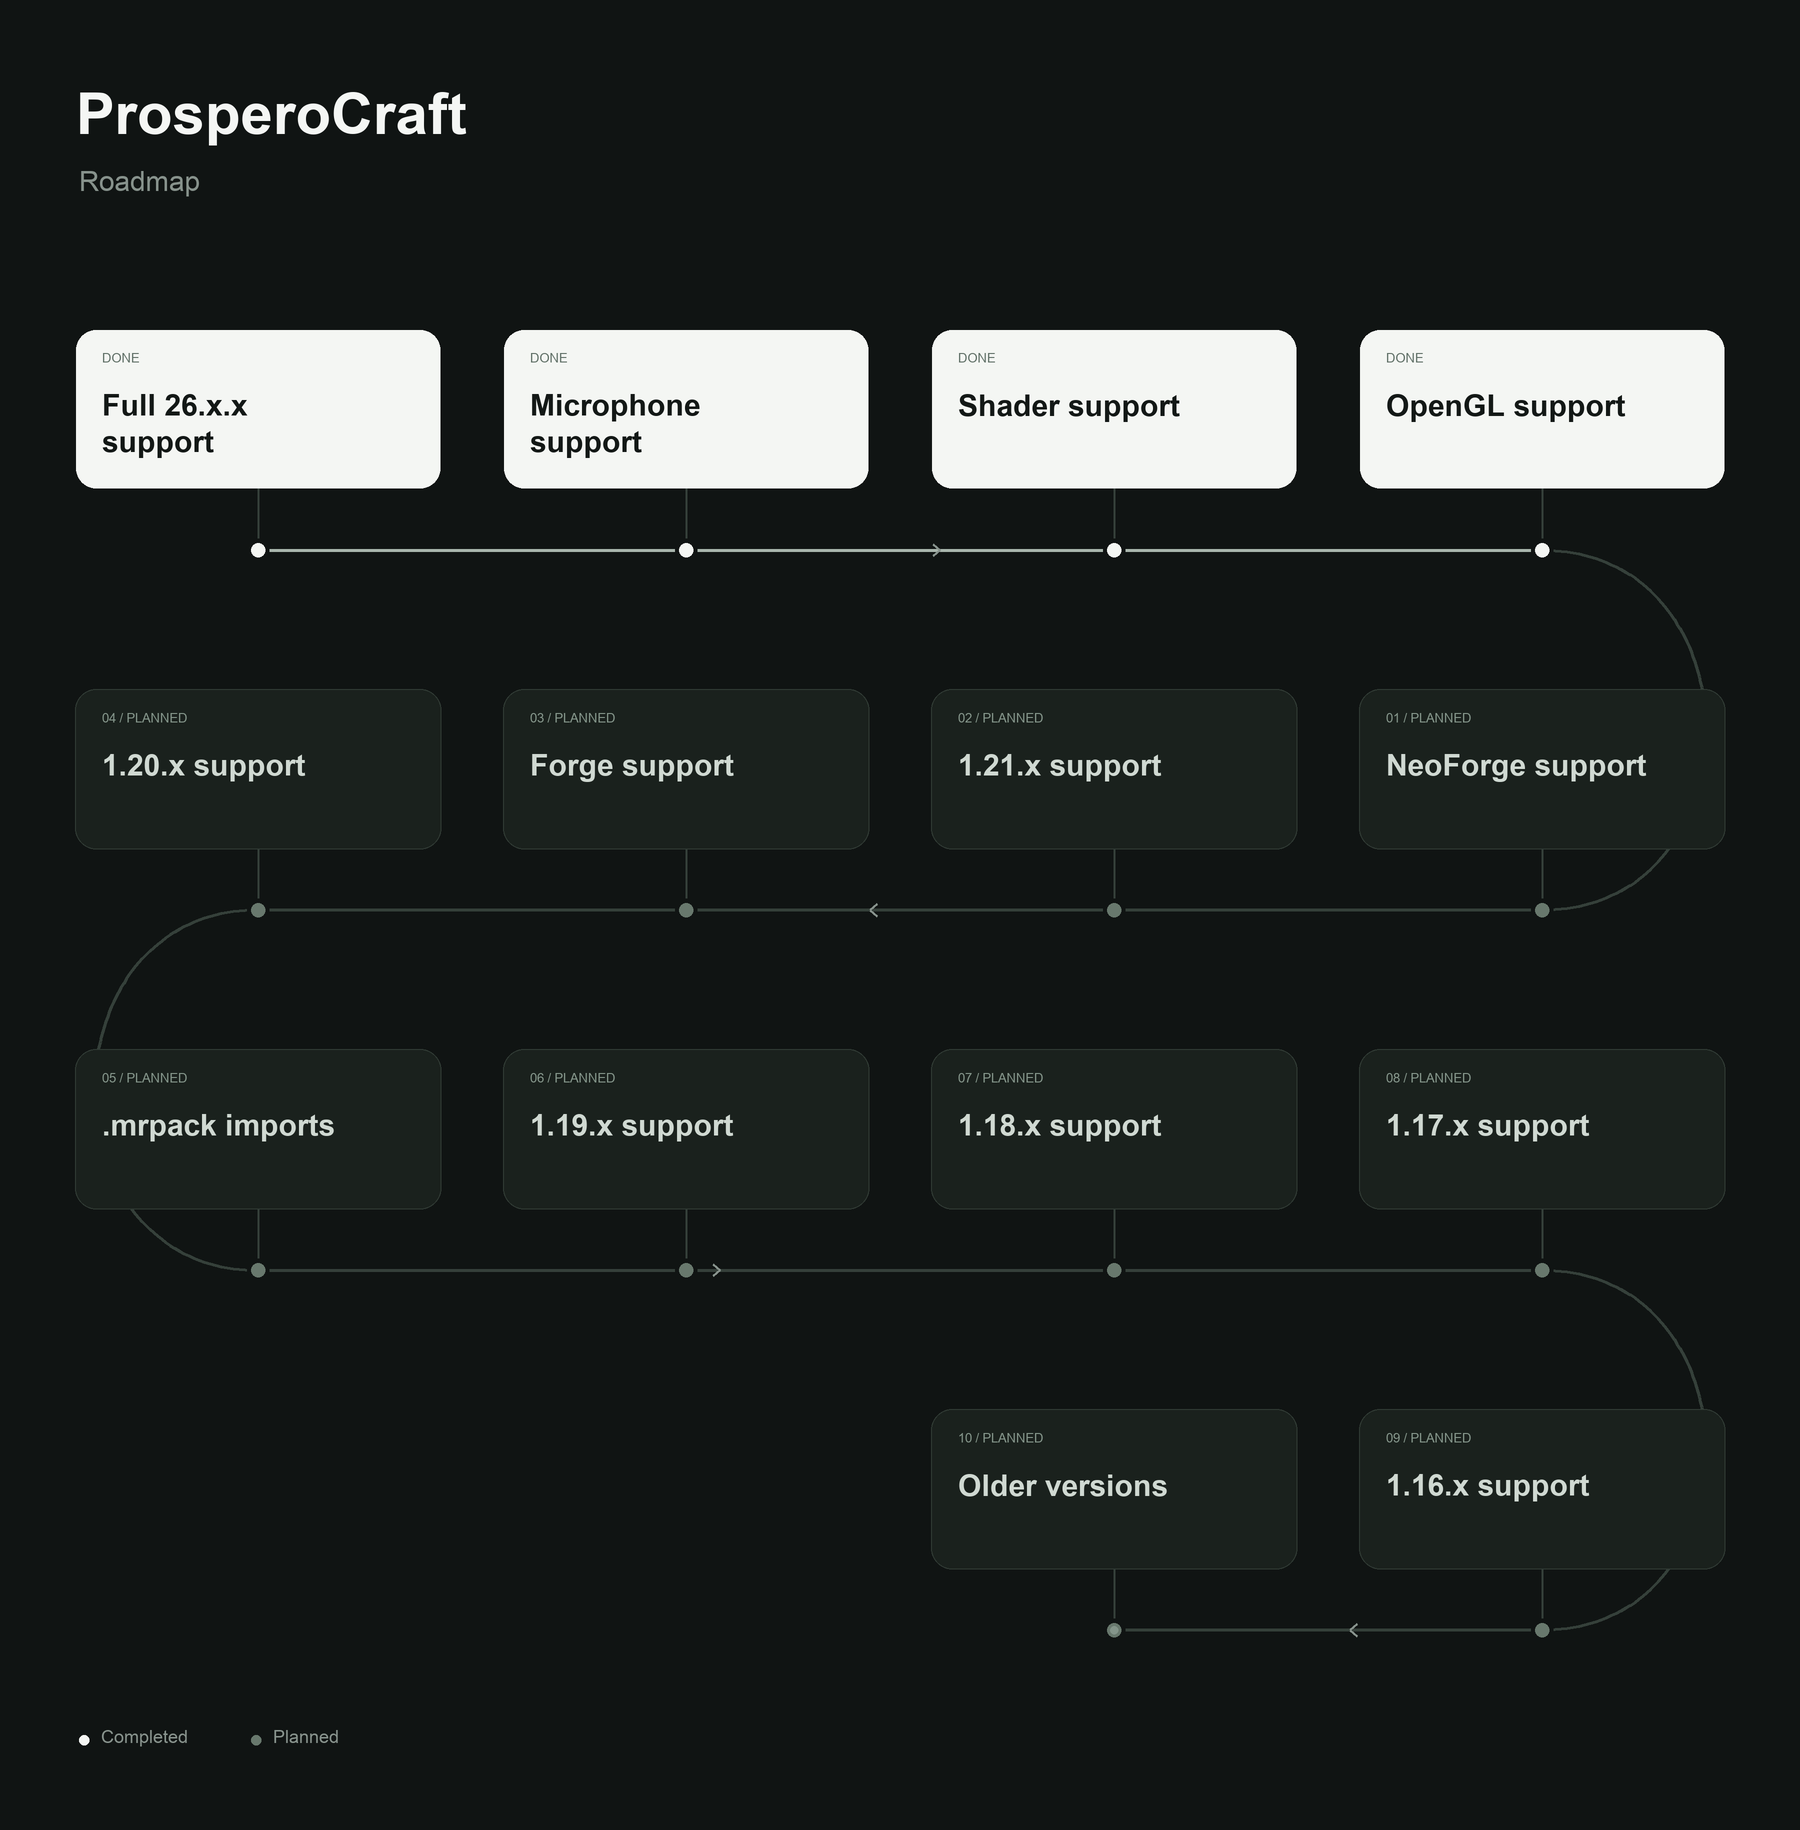
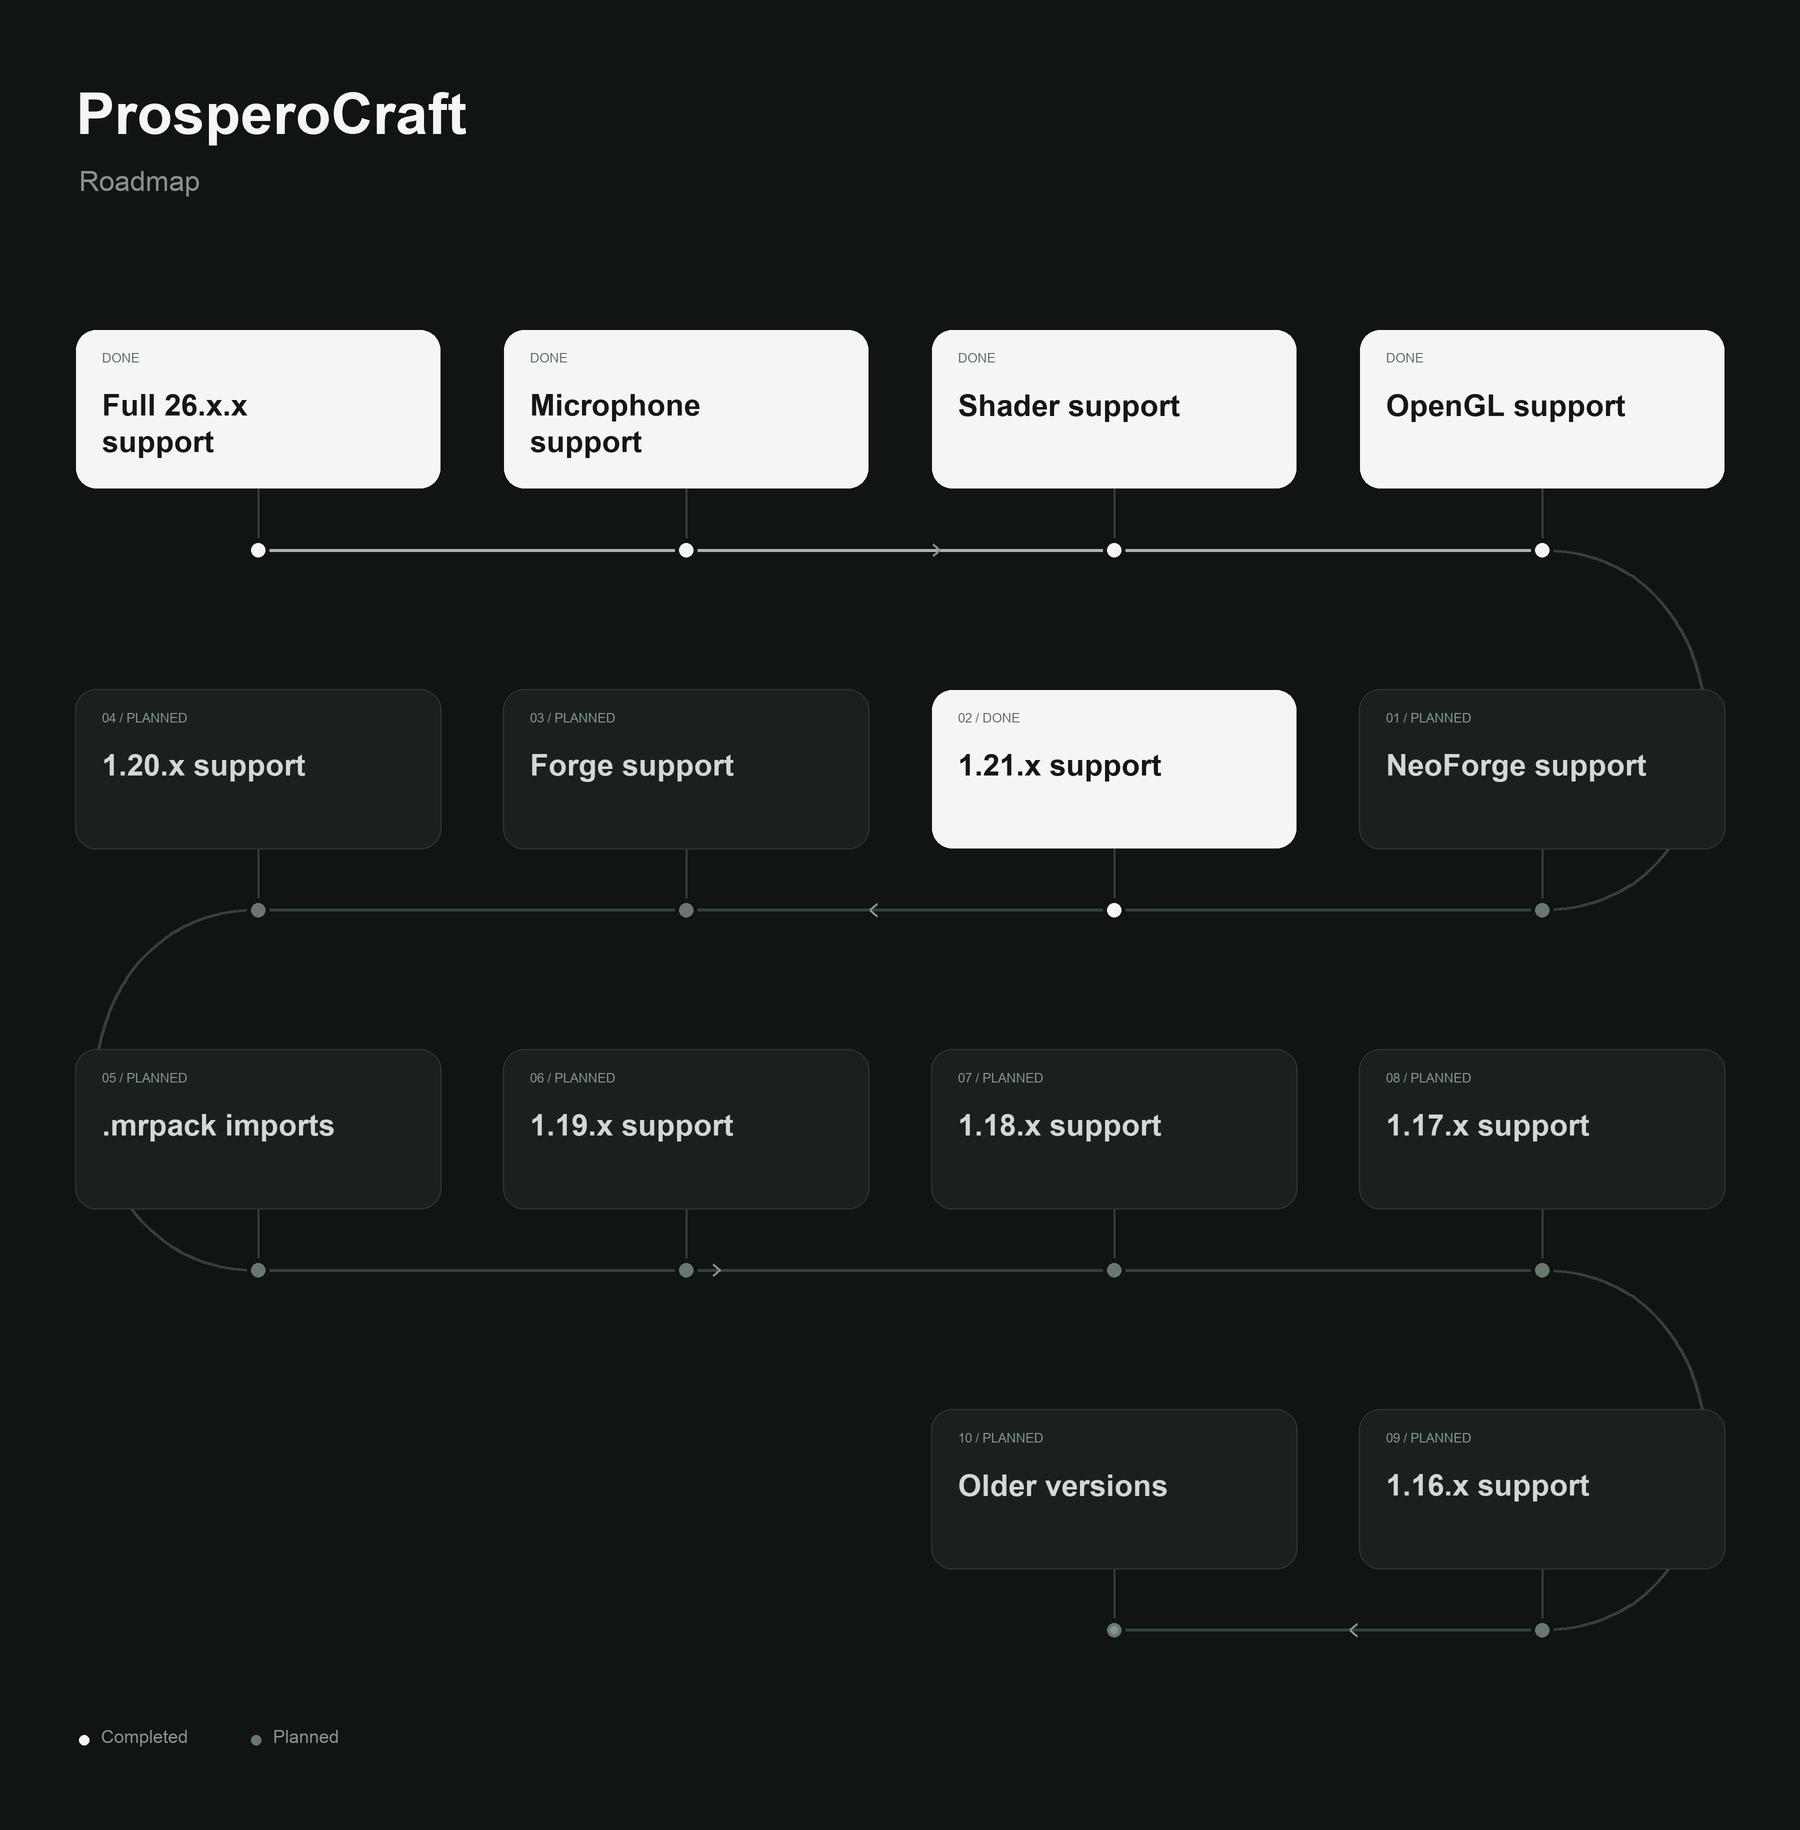
Mark Minecraft 1.21.x support complete on the roadmap

Changed region(s): [[0.4978, 0.3738, 0.7467, 0.4672]]

diff --git a/tools/draw_roadmap.py b/tools/draw_roadmap.py
@@ -21,7 +21,7 @@ def main():
     draw = ImageDraw.Draw(canvas)
     svg = [f'<svg xmlns="http://www.w3.org/2000/svg" width="{width}" height="{height}" viewBox="0 0 {width} {height}">',
            '<title>ProsperoCraft roadmap</title>',
-           '<desc>White completed milestones: Full 26.x.x support, microphone support, shader support, OpenGL support. A winding road continues through dark planned milestones: NeoForge support, 1.21.x support, Forge support, 1.20.x support, .mrpack imports, 1.19.x support, 1.18.x support, 1.17.x support, 1.16.x support and older versions.</desc>',
+           '<desc>White completed milestones: Full 26.x.x support, microphone support, shader support, OpenGL support and 1.21.x support. Dark planned milestones: NeoForge support, Forge support, 1.20.x support, .mrpack imports, 1.19.x support, 1.18.x support, 1.17.x support, 1.16.x support and older versions.</desc>',
            f'<rect width="{width}" height="{height}" fill="{bg}"/>']
 
     def rect(x, y, w, h, fill, radius=0):
@@ -70,7 +70,10 @@ def main():
         rect(x,y,w,h,'#F4F6F3' if done else '#1A211D',20)
         circle(center,road_y,11,bg)
         circle(center,road_y,7,'#F4F6F3' if done else '#68786D')
-        text(x+26,y+23,'DONE' if done else f'{number:02d} / PLANNED',13,
+        status = 'DONE' if done else 'PLANNED'
+        if number:
+            status = f'{number:02d} / {status}'
+        text(x+26,y+23,status,13,
              '#617168' if done else '#84958A')
         for i,label in enumerate(title):
             text(x+26,y+64+i*37,label,30,ink if done else '#D0D9D2',True)
@@ -81,15 +84,15 @@ def main():
     completed[0]=['Full 26.x.x','support']
     completed[1]=['Microphone','support']
     for x,title in zip(xs,completed): card(x,330,title,True,550,0)
-    planned = [
+    milestones = [
         'NeoForge support', '1.21.x support', 'Forge support', '1.20.x support',
         '.mrpack imports', '1.19.x support', '1.18.x support', '1.17.x support',
         '1.16.x support', 'Older versions',
     ]
-    for index, title in enumerate(planned):
+    for index, title in enumerate(milestones):
         row, column = divmod(index, 4)
         x = xs[3-column] if row % 2 == 0 else xs[column]
-        card(x,690+row*360,[title],False,910+row*360,index+1)
+        card(x,690+row*360,[title],title == '1.21.x support',910+row*360,index+1)
     circle(1114,1630,4,'#84958A')
     circle(84,1740,5,'#F4F6F3')
     text(101,1730,'Completed',18,muted)

diff --git a/assets/roadmap/README.md b/assets/roadmap/README.md
@@ -19,7 +19,7 @@ Regenerate from the repository root:
 python3 tools/draw_roadmap.py --font /path/to/Arial.ttf --bold-font /path/to/Arial-Bold.ttf --output assets/roadmap
 ```
 
-The planned rows follow the road right to left, left to right, then right to
-left. NeoForge precedes 1.21.x; Forge precedes 1.20.x; .mrpack imports sit between
-1.20.x and 1.19.x. Numbered planned milestones make the reading order
-explicit. No release dates are assigned.
+The lower rows follow the road right to left, left to right, then right to
+left. 1.21.x support is marked complete in its original position. Numbered
+milestones make the reading order explicit. The roadmap shows capabilities
+rather than release dates.

diff --git a/README.md b/README.md
@@ -109,7 +109,7 @@ If Play says Coming soon, compare the **version and loader** with the compatibil
 
 ## Roadmap
 
-![ProsperoCraft roadmap: completed features in white, followed by planned NeoForge, older Minecraft versions, Forge and .mrpack imports](assets/roadmap/prosperocraft-roadmap.png)
+![ProsperoCraft roadmap showing 1.21.x support as complete alongside planned NeoForge, Forge, older Minecraft versions and .mrpack imports](assets/roadmap/prosperocraft-roadmap.png)
 
 ### Completed milestones
 
